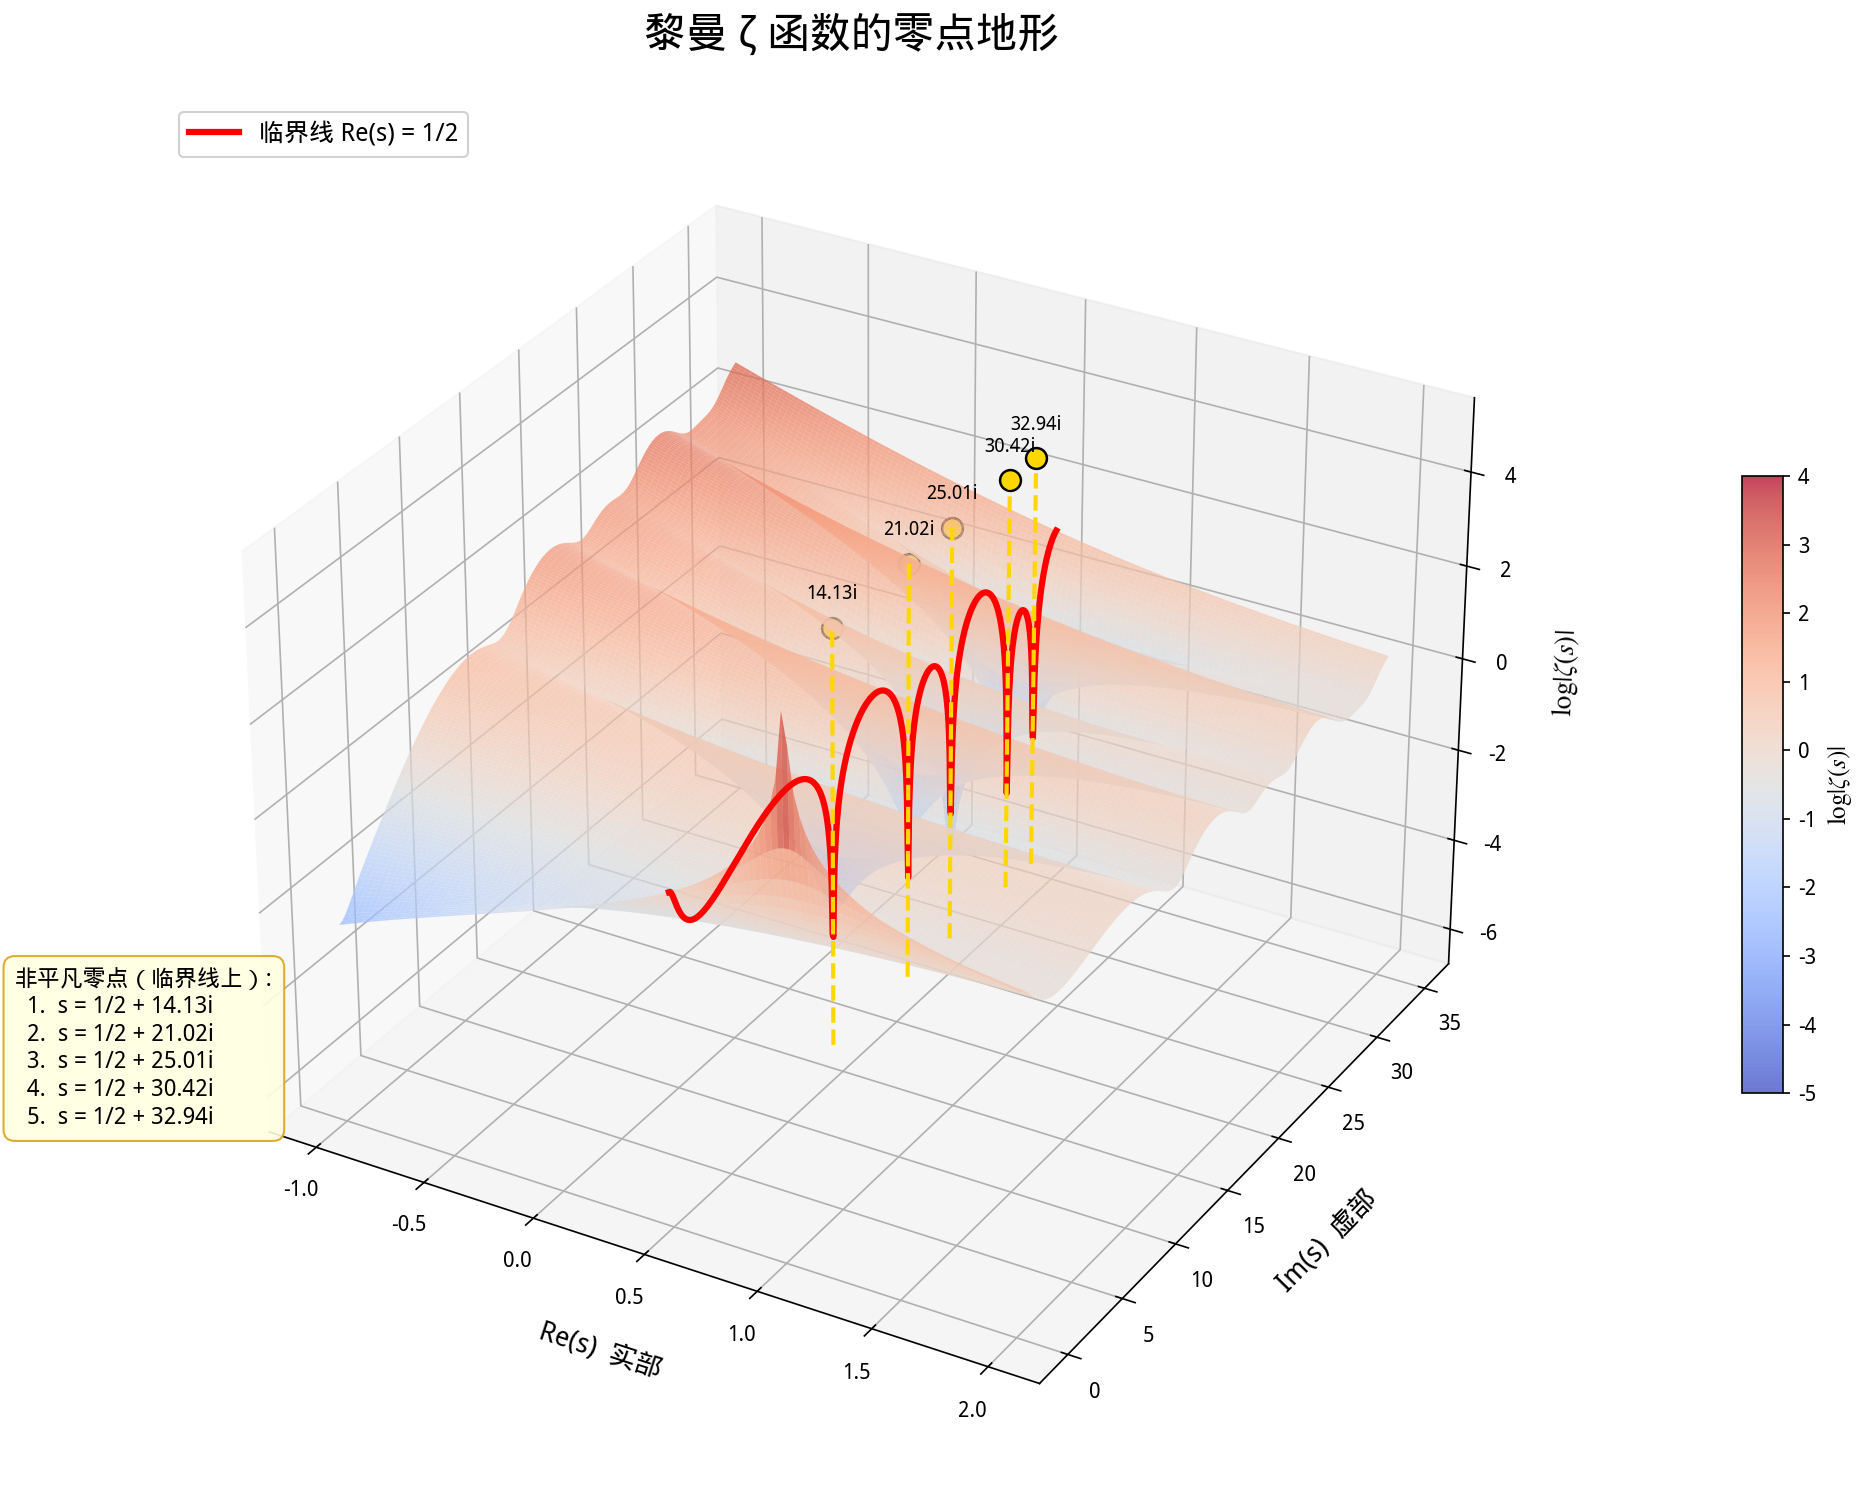
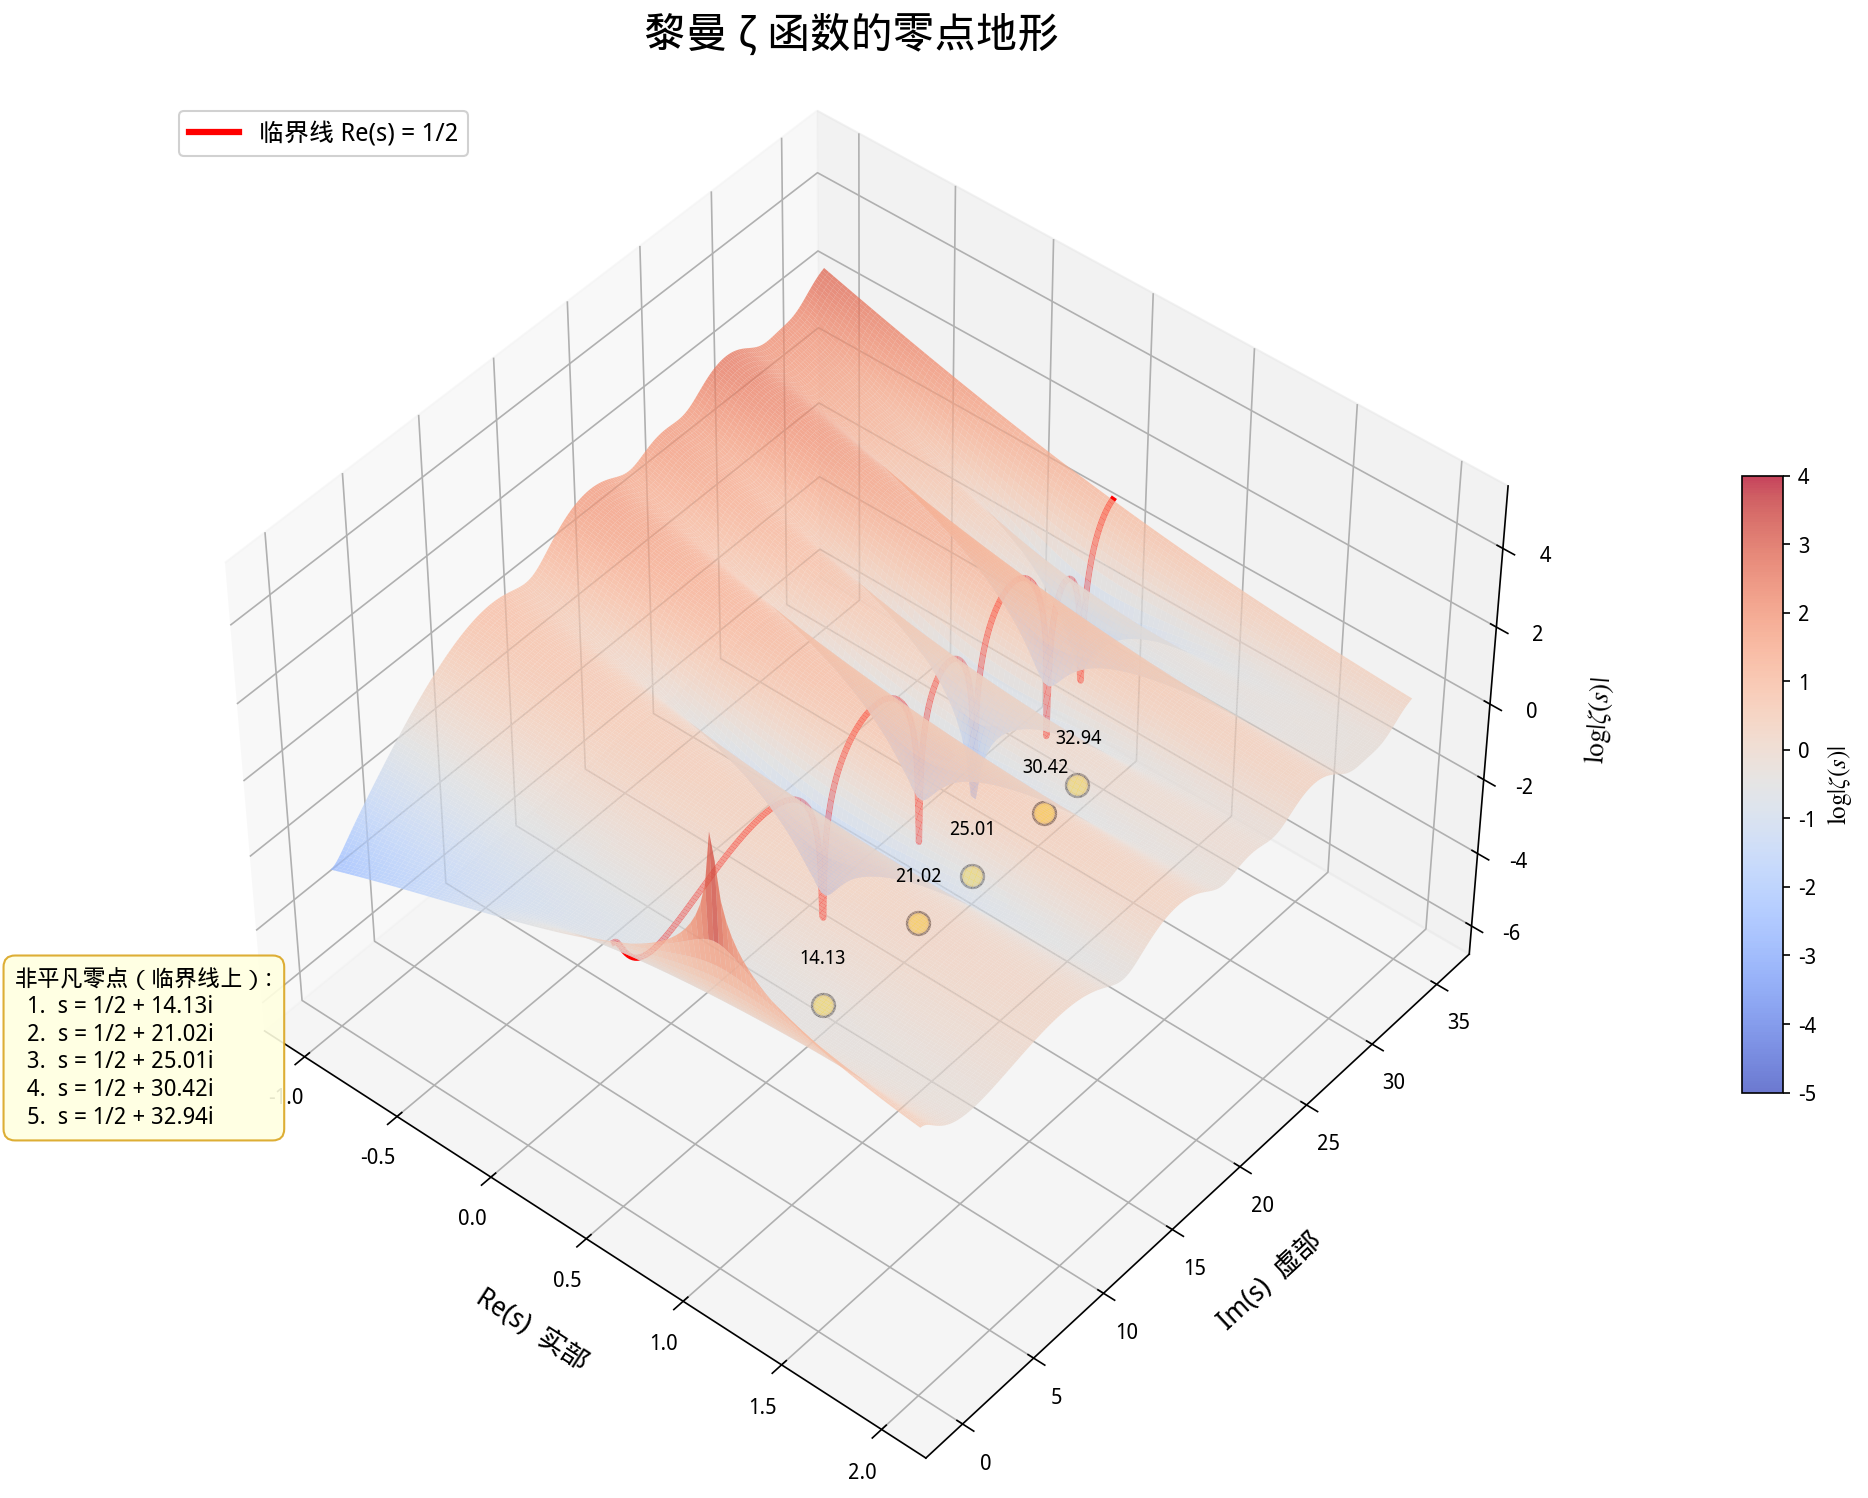
update

diff --git a/wechat/images/zeta_3d_plot.py b/wechat/images/zeta_3d_plot.py
@@ -70,18 +70,21 @@ ax.plot([re_crit] * len(im_crit_fine), im_crit_fine, z_crit,
 # 已知零点
 known_zeros_im = [14.1347, 21.0220, 25.0109, 30.4249, 32.9351]
 
-# 零点标记：用竖线从谷底到曲面上方，更醒目
+# 零点标记：金色圆点在谷底，虚线往下拉到地面，强调"掉到零"
 for z_im in known_zeros_im:
     zval = complex(mpmath.zeta(complex(0.5, z_im)))
     z_val_log = np.clip(np.log(abs(zval) + 1e-30), -6, 5)
-    # 竖直虚线从谷底到上方
-    ax.plot([0.5, 0.5], [z_im, z_im], [z_val_log, 3.0],
+    # 竖直虚线从谷底拉到地面
+    ax.plot([0.5, 0.5], [z_im, z_im], [-6, z_val_log],
             color='gold', linewidth=2, linestyle='--', zorder=20)
-    # 顶部金色大圆点
-    ax.scatter([0.5], [z_im], [3.0], color='gold', s=100, zorder=25,
+    # 金色大圆点在谷底位置
+    ax.scatter([0.5], [z_im], [z_val_log], color='gold', s=120, zorder=25,
                edgecolors='black', linewidth=1.2, depthshade=False)
-    # 在圆点旁标注虚部数值
-    ax.text(0.5, z_im, 3.5, f'{z_im:.2f}i',
+    # 地板上的投影圆点（阴影效果）
+    ax.scatter([0.5], [z_im], [-6], color='gold', s=80, zorder=15,
+               edgecolors='goldenrod', linewidth=0.8, alpha=0.5, depthshade=False)
+    # 在圆点上方标注虚部数值
+    ax.text(0.5, z_im, z_val_log + 1.0, f'{z_im:.2f}',
             fontsize=9, color='black', fontweight='bold',
             ha='center', va='bottom', zorder=30)
 
@@ -103,8 +106,8 @@ ax.set_zlabel(r'$\log|\zeta(s)|$', fontsize=13, labelpad=10)
 
 ax.set_title('黎曼 ζ 函数的零点地形', fontsize=20, fontweight='bold', pad=25)
 
-# 视角
-ax.view_init(elev=30, azim=-60)
+# 视角：抬高俯视角度，让谷底凹陷更明显
+ax.view_init(elev=45, azim=-50)
 
 # 颜色条
 cbar = fig.colorbar(surf, ax=ax, shrink=0.45, aspect=15, pad=0.1)

diff --git a/wechat/images/zeta_critical_line.py b/wechat/images/zeta_critical_line.py
@@ -1,0 +1,57 @@
+"""
+黎曼 Zeta 函数在临界线 Re(s)=1/2 上的截面图
+横轴：虚部 Im(s)，纵轴：|ζ(1/2 + it)|
+零点就是曲线掉到 0 的地方
+"""
+
+import numpy as np
+import mpmath
+import matplotlib
+matplotlib.use('Agg')
+import matplotlib.pyplot as plt
+
+plt.rcParams['font.family'] = ['WenQuanYi Micro Hei', 'DejaVu Sans']
+plt.rcParams['axes.unicode_minus'] = False
+
+# 计算临界线上的 |ζ(1/2 + it)|
+t_vals = np.linspace(0, 36, 2000)
+zeta_abs = []
+
+print("正在计算临界线上的 ζ 值...")
+for t in t_vals:
+    zval = complex(mpmath.zeta(complex(0.5, t)))
+    zeta_abs.append(abs(zval))
+print("计算完成！")
+
+zeta_abs = np.array(zeta_abs)
+
+# 已知零点虚部
+known_zeros = [14.1347, 21.0220, 25.0109, 30.4249, 32.9351]
+
+fig, ax = plt.subplots(figsize=(12, 5), dpi=150)
+
+# 主曲线
+ax.plot(t_vals, zeta_abs, color='red', linewidth=2)
+
+# 零点标注
+for z_im in known_zeros:
+    ax.plot(z_im, 0, 'o', color='gold', markersize=12,
+            markeredgecolor='black', markeredgewidth=1.2, zorder=10)
+    ax.annotate(f'{z_im:.2f}', xy=(z_im, 0), xytext=(z_im, -0.3),
+                fontsize=10, fontweight='bold', ha='center', va='top',
+                color='black')
+
+# 零线
+ax.axhline(y=0, color='gray', linewidth=0.8, linestyle='-', alpha=0.5)
+
+ax.set_xlabel('Im(s)  虚部', fontsize=14)
+ax.set_ylabel('|ζ(1/2 + it)|', fontsize=14)
+ax.set_title('临界线上的 ζ 函数——曲线掉到零的地方就是零点', fontsize=16, fontweight='bold')
+ax.set_xlim(0, 36)
+ax.set_ylim(-0.5, max(zeta_abs) * 1.05)
+ax.grid(True, alpha=0.3)
+
+plt.tight_layout()
+plt.savefig('/home/lmxxf/work/ai-theorys-study/wechat/images/zeta-critical-line.png',
+            bbox_inches='tight', facecolor='white')
+print("图片已保存!")
